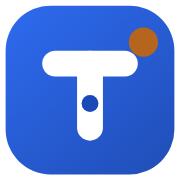
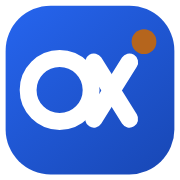
Rebrand Toolworks to Oxvid Tools with a new OX logomark
Renames the site from "Toolworks" to "Oxvid Tools" everywhere it
appeared (page titles, header/footer brand text, About copy, footer
tagline), since this site was built by and for Oxvid Systems.

Replaces the "T" logomark with an "OX" ligature (open ring + crossing
bars) that echoes the parent Oxvid Systems logo's O+X construction
and ascending accent dot, but rendered in this site's own blue
gradient and copper accent colors rather than the parent mark's
teal/green, so it stays visually consistent with the rest of the UI
(buttons, tags) while still reading as part of the same brand family.
Checked legible from 16px through 512px, on light and dark
backgrounds. Also switched BrandMark's SVG gradient to a per-instance
id (useId) instead of a hardcoded one, since Header and Footer both
render it on the same page.

Claude-Session: https://claude.ai/code/session_01JNeT8YC3zczEykCyjCvr2F

Changed region(s): [[0.1111, 0.1389, 0.8889, 0.8056], [0.8333, 0.1667, 0.8611, 0.1944]]

diff --git a/src/components/BrandMark.jsx b/src/components/BrandMark.jsx
@@ -1,21 +1,42 @@
-// The Toolworks logomark: a "T" built from two rounded bars (on-brand with
-// the site's rounded-square/pill visual language), on the same blue gradient
-// used by .btn-primary, with a copper accent chip pulling in the site's
+import { useId } from 'react';
+
+// The Oxvid Tools logomark: an "OX" ligature (open ring + crossing bars),
+// echoing the parent Oxvid Systems logo's O+X construction and ascending
+// accent dot, rendered in this site's own blue gradient (the same one used
+// by .btn-primary) with a copper accent chip pulling in the site's
 // secondary brand color. Doubles as the browser favicon (public/favicon.svg).
 export default function BrandMark({ size = 26 }) {
+  const gradientId = useId();
+
   return (
     <svg width={size} height={size} viewBox="0 0 32 32" fill="none" aria-hidden="true">
       <defs>
-        <linearGradient id="tw-badge" x1="4" y1="2" x2="28" y2="30" gradientUnits="userSpaceOnUse">
+        <linearGradient id={gradientId} x1="4" y1="2" x2="28" y2="30" gradientUnits="userSpaceOnUse">
           <stop offset="0" stopColor="#2563EB" />
           <stop offset="1" stopColor="#1949B8" />
         </linearGradient>
       </defs>
-      <rect x="1" y="1" width="30" height="30" rx="8" fill="url(#tw-badge)" />
-      <rect x="7.5" y="9" width="17" height="4.6" rx="2.3" fill="#FFFFFF" />
-      <rect x="13.7" y="9" width="4.6" height="16" rx="2.3" fill="#FFFFFF" />
-      <circle cx="16" cy="18.4" r="1.5" fill="#1949B8" />
-      <circle cx="25.5" cy="7.5" r="2.6" fill="#B5651D" />
+      <rect x="1" y="1" width="30" height="30" rx="8" fill={`url(#${gradientId})`} />
+      <circle cx="10.6" cy="16" r="5.6" fill="none" stroke="#FFFFFF" strokeWidth="3" />
+      <rect
+        x="18.3"
+        y="8.6"
+        width="3.1"
+        height="15"
+        rx="1.55"
+        fill="#FFFFFF"
+        transform="rotate(32 19.85 16.1)"
+      />
+      <rect
+        x="18.3"
+        y="8.6"
+        width="3.1"
+        height="15"
+        rx="1.55"
+        fill="#FFFFFF"
+        transform="rotate(-32 19.85 16.1)"
+      />
+      <circle cx="25.6" cy="7.4" r="2.2" fill="#B5651D" />
     </svg>
   );
 }

diff --git a/src/data/staticCopy.js b/src/data/staticCopy.js
@@ -1,4 +1,4 @@
-export const ABOUT_COPY = `<p>Toolworks is a single, consistent home for the everyday utilities people otherwise hunt across a dozen ad-heavy sites: converting a file, formatting some code, working out a percentage, checking a color's contrast.</p>
+export const ABOUT_COPY = `<p>Oxvid Tools is a single, consistent home for the everyday utilities people otherwise hunt across a dozen ad-heavy sites: converting a file, formatting some code, working out a percentage, checking a color's contrast.</p>
 <p>The registry behind this site currently holds 146 tools, 145 of them with real, working implementations — including full PDF password protection and unlocking. The one holdout, a live HTTP status checker, needs a server-side proxy that a static, client-side page genuinely can't provide on its own, so it's scaffolded and clearly marked rather than faked. Nothing on this site fakes a result: if a tool isn't finished, it says so.</p>
 <p>Every tool page follows the same structure on purpose. Once you understand one, you understand all of them.</p>`;
 

diff --git a/src/components/Footer.jsx b/src/components/Footer.jsx
@@ -32,7 +32,7 @@ export default function Footer() {
         <div>
           <Link className="brand" to="/" style={{ marginBottom: 10, display: 'inline-flex' }}>
             <BrandMark size={26} />
-            Toolworks
+            Oxvid Tools
           </Link>
           <p style={{ color: 'var(--muted)', fontSize: 13.5, maxWidth: 280, marginTop: 10 }}>
             146 genuinely working tools today, built on an architecture designed to scale to 500+
@@ -51,7 +51,7 @@ export default function Footer() {
         ))}
       </div>
       <div className="container footer-bottom">
-        <span>© {new Date().getFullYear()} Toolworks. All tools run in your browser unless noted.</span>
+        <span>© {new Date().getFullYear()} Oxvid Tools. All tools run in your browser unless noted.</span>
         <span>Built for speed, privacy and clarity.</span>
       </div>
     </footer>

diff --git a/src/core/engine.js b/src/core/engine.js
@@ -1,4 +1,4 @@
-/* Toolworks engine — 145 client-side tool implementations, extracted
+/* Oxvid Tools engine — 145 client-side tool implementations, extracted
    verbatim from the original single-file site. Framework-agnostic:
    these functions take a plain DOM container element and mount
    themselves imperatively (canvas ops, PDF processing via pdf-lib/
@@ -3359,7 +3359,7 @@ const DISPATCH = {
    ------------------------------------------------------------------- */
 (function integrityCheck(){
   const missing = TOOLS.filter(t=>!SOON.has(t.id) && !DISPATCH[t.id]);
-  if(missing.length) console.warn('Toolworks: missing implementation for', missing.map(t=>t.id));
+  if(missing.length) console.warn('Oxvid Tools: missing implementation for', missing.map(t=>t.id));
 })();
 
 export {

diff --git a/src/pages/Categories.jsx b/src/pages/Categories.jsx
@@ -4,14 +4,14 @@ import CategoryCard from '../components/CategoryCard.jsx';
 
 export default function Categories() {
   useEffect(() => {
-    document.title = 'Categories — Toolworks';
+    document.title = 'Categories — Oxvid Tools';
   }, []);
 
   return (
     <>
       <div className="page-head container">
         <h1>Categories</h1>
-        <p>Every tool on Toolworks belongs to exactly one of these nine categories.</p>
+        <p>Every tool on Oxvid Tools belongs to exactly one of these nine categories.</p>
       </div>
       <div className="container section tight">
         <div className="cat-grid">

diff --git a/index.html b/index.html
@@ -3,7 +3,7 @@
   <head>
     <meta charset="UTF-8" />
     <meta name="viewport" content="width=device-width, initial-scale=1.0" />
-    <title>Toolworks — Fast, trustworthy utilities</title>
+    <title>Oxvid Tools — Fast, trustworthy utilities</title>
     <meta name="description" content="150 genuinely functional tools for documents, images, text, code, numbers and design. No sign-up, no clutter, just tools that work." />
     <link rel="icon" type="image/svg+xml" href="/favicon.svg" />
     <link rel="icon" type="image/png" sizes="32x32" href="/favicon-32.png" />

diff --git a/src/components/Header.jsx b/src/components/Header.jsx
@@ -22,7 +22,7 @@ export default function Header() {
       <div className="container bar">
         <Link className="brand" to="/">
           <BrandMark size={26} />
-          Toolworks
+          Oxvid Tools
         </Link>
         <nav className="main-nav" aria-label="Primary">
           {NAV_LINKS.map(([href, label]) => (

diff --git a/src/pages/StaticPage.jsx b/src/pages/StaticPage.jsx
@@ -5,7 +5,7 @@ import { useEffect } from 'react';
 // Privacy, Terms) — never from user or external input.
 export default function StaticPage({ title, htmlCopy }) {
   useEffect(() => {
-    document.title = `${title} — Toolworks`;
+    document.title = `${title} — Oxvid Tools`;
   }, [title]);
 
   return (

diff --git a/src/pages/About.jsx b/src/pages/About.jsx
@@ -2,5 +2,5 @@ import StaticPage from './StaticPage.jsx';
 import { ABOUT_COPY } from '../data/staticCopy.js';
 
 export default function About() {
-  return <StaticPage title="About Toolworks" htmlCopy={ABOUT_COPY} />;
+  return <StaticPage title="About Oxvid Tools" htmlCopy={ABOUT_COPY} />;
 }

diff --git a/src/pages/Home.jsx b/src/pages/Home.jsx
@@ -68,7 +68,7 @@ export default function Home() {
   const [kwLang, setKwLang] = useState('en');
 
   useEffect(() => {
-    document.title = 'Toolworks — Fast, trustworthy utilities';
+    document.title = 'Oxvid Tools — Fast, trustworthy utilities';
   }, []);
 
   function goToKwTool() {

diff --git a/src/pages/ToolPage.jsx b/src/pages/ToolPage.jsx
@@ -18,7 +18,7 @@ export default function ToolPage() {
   const tool = TOOL_BY_SLUG[slug];
 
   useEffect(() => {
-    if (tool) document.title = `${tool.name} — Toolworks`;
+    if (tool) document.title = `${tool.name} — Oxvid Tools`;
   }, [tool]);
 
   if (!tool) return <NotFound />;

diff --git a/src/pages/Category.jsx b/src/pages/Category.jsx
@@ -9,7 +9,7 @@ export default function Category() {
   const cat = CAT_BY_KEY[key];
 
   useEffect(() => {
-    if (cat) document.title = `${cat.name} — Toolworks`;
+    if (cat) document.title = `${cat.name} — Oxvid Tools`;
   }, [cat]);
 
   if (!cat) return <NotFound />;
